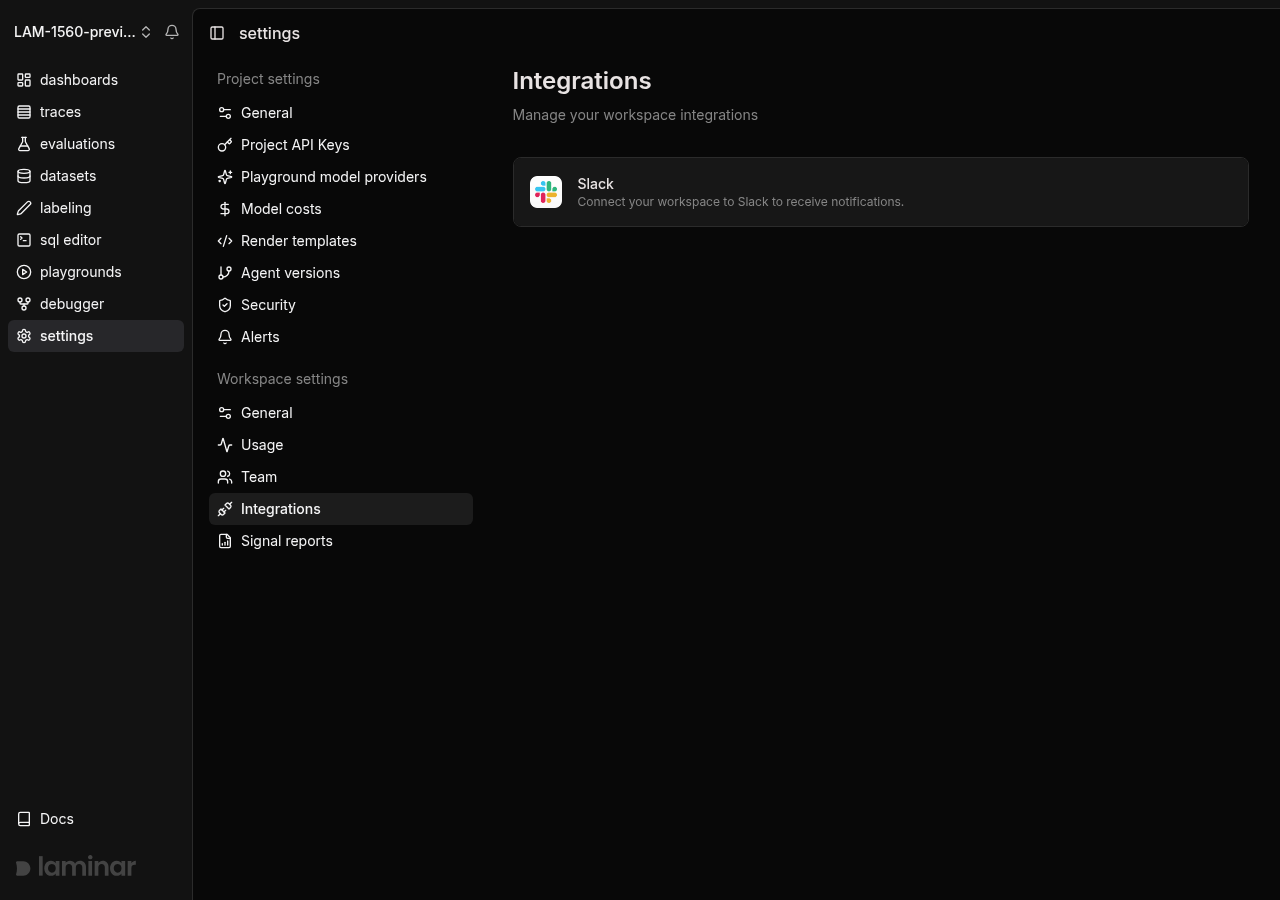
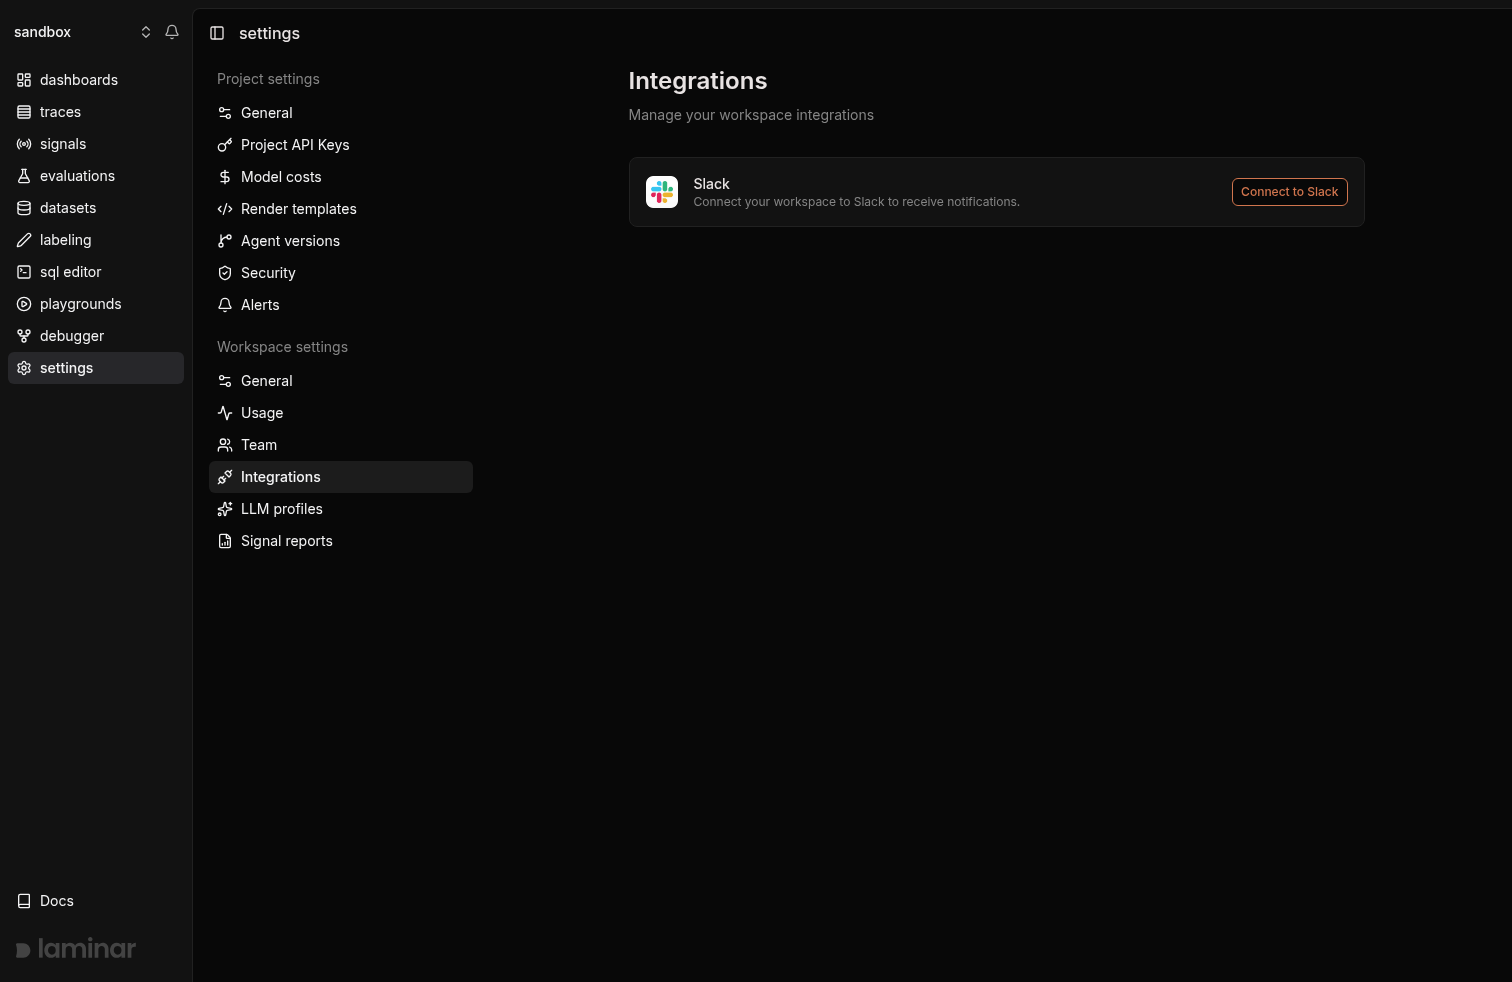
docs(signals): move alerts screenshots and guidance to signal settings
Alerts now live in each Signal's Settings > Alerts section, and Slack
connects from either that section or workspace Settings > Integrations.
Recapture the alerts, alert toggle, output filters, and workspace
integrations screenshots, and update the alerts, quickstart, and Slack
integration pages to match.

diff --git a/CLAUDE.md b/CLAUDE.md
@@ -111,8 +111,9 @@ This is a Mintlify site. Pages are `.mdx`, navigation lives in `docs.json`, reus
 - Exception: when the *point* of the screenshot is to show span nesting across processes (e.g. a caller-side `observe` wrapping a server-side turn span), capture the **tree view** alongside the transcript view. Use both in the same section so the hierarchy is obvious.
 - Close the "Chat with trace" and Signals side panels before capturing so the trace plus transcript are the dominant content. Dismiss any "New: …" Mintlify-style feature popups too.
 - For the **Reports** page: workspaces that predate the default-reports logic (created before LAM-1474) will have an empty reports table in staging. Seed two rows into `reports` (`type=SIGNAL_EVENTS_SUMMARY`, `weekdays={0,1,2,3,4}`/`{6}`, `hour=10`) + matching `report_targets` so the screenshot shows "Weekday/Weekly signals summary" rows instead of the empty state.
-- For the **project Alerts** page: insert a `NEW_CLUSTER` alert alongside the existing `SIGNAL_EVENT` alerts in staging to visibly exercise the Trigger + Severity columns (severity is blank/"—" for `NEW_CLUSTER` rows, which is the expected rendering).
-- For **Signals** screenshots in the OSS `/repos/lmnr` stack: the Signals UI is gated behind `Feature.SIGNALS` (`frontend/lib/features/features.ts`), which needs `SIGNALS_ENABLED=true` AND a configured AI provider (`LLM_PROVIDER` + `LLM_API_KEY`), and clusters need `CLUSTERING_ENABLED=true`. These are runtime server-env reads, so start the prod frontend with all four set (no rebuild needed) and `/signals` stops redirecting to `/traces`. The Signals settings PRs (#1934 four-section sidebar + alert output-schema filters + backfill; #1903 clusters refresh) are merged into the lmnr `dev` branch, so the new UI renders from OSS once the flags are on. lmnr-private is NOT required for the UI to render (it is present in this sandbox now, and its frontend carries the newest Signals UI first). Signal detail page has THREE top-level tabs (Events, Runs, Settings — Settings hidden on free tier); the clusters view renders INSIDE the Events tab, as an icicle strip ABOVE the events table (it was a two-panel list below the table before the clusters refresh), not as its own tab. The former Activity section moved out of Settings and became the Runs tab, so Settings sections are `?tab=settings&section=settings|alerts|backfill`. The Backfill and Runs tables each have their own time-range picker that defaults to 1d — widen to 3 months to populate them (project `0cce3ee3-…` signal `cf58f99f-…` has ~226 runs / 209 events / 8 clusters around 2026-04-20..30). Output-schema-filter UI only renders fields when the signal's `structured_output_schema` has named properties; signal `c0685fef-…` ("Test Signal", `summary`/`isFailure`) is a good one for that shot.
+- For the **Signal Settings > Alerts** shots (LAM-2295): the **Connect to Slack** button only renders when the frontend has `SLACK_CLIENT_ID` and `SLACK_REDIRECT_URL` at runtime (`buildSlackConnectUrl` returns undefined otherwise, hiding the button). Placeholder values (`SLACK_CLIENT_ID=0000000000.0000000000 SLACK_REDIRECT_URL=http://localhost:3000/api/integrations/slack pnpm run start`) are enough, no rebuild. Staging signal `cf58f99f-…` has three seeded alerts (Prebuild regressions, New failure mode, Every prebuild event `a1111111-…0003`) with EMAIL targets; toggle via the `disabled` key in `alerts.metadata`. `/workspace/<id>?tab=integrations` can redirect to another project; use `/project/<id>/settings?tab=integrations` for the workspace Integrations shot. `lsof` is missing, `fuser <port>/tcp` works.
+- (Legacy) For the **project Alerts** page: insert a `NEW_CLUSTER` alert alongside the existing `SIGNAL_EVENT` alerts in staging to visibly exercise the Trigger + Severity columns (severity is blank/"—" for `NEW_CLUSTER` rows, which is the expected rendering).
+- For **Signals** screenshots in the OSS `/repos/lmnr` stack: the Signals UI is gated behind `Feature.SIGNALS` (`frontend/lib/features/features.ts`), which needs `SIGNALS_ENABLED=true` AND a configured AI provider (`LLM_PROVIDER` + `LLM_API_KEY`), and clusters need `CLUSTERING_ENABLED=true`. These are runtime server-env reads, so start the prod frontend with all four set (no rebuild needed) and `/signals` stops redirecting to `/traces`. The Signals settings PRs (#1934 four-section sidebar + alert output-schema filters + backfill; #1903 clusters refresh) are merged into the lmnr `dev` branch, so the new UI renders from OSS once the flags are on. lmnr-private is NOT required for the UI to render (it is present in this sandbox now, and its frontend carries the newest Signals UI first). Signal detail page has THREE top-level tabs (Events, Runs, Settings — Settings hidden on free tier); the clusters view renders INSIDE the Events tab, as an icicle strip ABOVE the events table (it was a two-panel list below the table before the clusters refresh), not as its own tab. The former Activity section moved out of Settings and became the Runs tab, so Settings sections are `?tab=settings&section=settings|versions|alerts|backfill` (sidebar labels General / Versions / Alerts / Backfill). The Backfill and Runs tables each have their own time-range picker that defaults to 1d — widen to 3 months to populate them (project `0cce3ee3-…` signal `cf58f99f-…` has ~226 runs / 209 events / 8 clusters around 2026-04-20..30). Output-schema-filter UI only renders fields when the signal's `structured_output_schema` has named properties; signal `c0685fef-…` ("Test Signal", `summary`/`isFailure`) is a good one for that shot.
 - **Signals create/edit UI after LAM-2126** (`components/signals/create-signal-drawer/`): creation happens in a right-side **drawer** opened by the `+ Signal` button (the button label is just "Signal" with a plus icon, there is no "Create signal" button), while an existing Signal is still edited on the full `?tab=settings&section=settings` page, which embeds the same form. `Trigger` is a two-card radio: **"When a trace finishes"** (default) and **"When a specific span finishes"** (reveals a span-name tag input). `Filters` is the traces-table search bar (`AdvancedSearch`, free text disabled, columns Total tokens / Status / Span names) and every new Signal starts with `total tokens > 1000`. Use the UI labels in docs, not the API kind names (`root-span-finished` / `span-name`) which only appear in the CLI. Two things that will NOT show up in a screenshot: the `Processing mode` select is behind `Feature.BATCH_SIGNALS`, which is hard-coded `false` in `lib/features/features.ts`, and the Active/Inactive card renders only when editing (the form checks for an `id`), so it is absent from the create drawer.
 - Signal **evaluation** does not run against the local lmnr-private stack: the `signals` cargo feature is not in app-server's default features, so a Signal created for a screenshot stays at 0 events. Shoot populated events/clusters/backfill views against pre-existing data (project `0cce3ee3-…`, signal `cf58f99f-…`) instead of waiting for new events.
 - For the **Sessions** section (`/tracing/structure/sessions`) after LAM-1438-2 / PR #1656: the old expandable-row drawer is gone. Clicking a row in the Sessions table at `/project/<id>/traces?view=sessions` (actual path is server-side; the tab is labeled `Sessions` next to `Traces`/`Spans`) navigates to `/project/<id>/sessions/<sessionId>`. The detail page has a `sessions / <sessionId>` breadcrumb, three stats shields (duration / tokens / cost), a `Timeline` toggle, a search box, and numbered trace cards (`1/5`, `2/5`, …) with an auto-extracted `Input` block plus the last LLM-span output. Docs must show BOTH the table view and the detail view. Seed at least two sessions with real OpenAI/Anthropic calls (not just raw `@observe`'d functions) so the Input/Output previews are populated — sessions without LLM spans render a thin card that does not demo the new UI.
@@ -191,7 +192,7 @@ This is a Mintlify site. Pages are `.mdx`, navigation lives in `docs.json`, reus
 
 ## Alerts and reports coupling
 
-- Alerts are **project-level** (`/repos/lmnr/app-server` writes to `alerts` / `alert_targets`); reports are **workspace-level** (`reports` / `report_targets`). Both live under the Signals sidebar group in `docs.json` (`/signals/alerts` and `/signals/reports`), since they're the two notification-channel primitives for Signals.
+- Alerts are stored per project (`alerts` / `alert_targets`), but the UI home is the Signal: docs point to the Signal's **Settings > Alerts** section (list, **+ Alert**, edit, switch, and a **Slack** connect card), never to project Settings. The project Settings sidebar still renders an "Alerts" item in the lmnr-private build as of LAM-2295 (2026-09); docs intentionally ignore it. Slack connects from two cards that share one workspace-level connection: the Signal's Settings > Alerts and workspace **Settings > Integrations**. Reports are **workspace-level** (`reports` / `report_targets`). Both live under the Signals sidebar group in `docs.json` (`/signals/alerts` and `/signals/reports`), since they're the two notification-channel primitives for Signals.
 - Alert types are `SIGNAL_EVENT` and `NEW_CLUSTER`. `skipSimilar` and `NEW_CLUSTER` both depend on the clustering service and are gated behind `Feature.CLUSTERING` in the UI — call this out explicitly in any doc that mentions them.
 - Every new Signal auto-creates a Critical-severity `SIGNAL_EVENT` alert plus (when clustering is on) a `NEW_CLUSTER` alert, both defaulting to in-app only. The `/signals/quickstart` Note must stay in sync with this behavior if the default-alert logic changes.
 - Reports post to the in-app notification center only for short periods (≤3 days); weekly-style rollups are suppressed in-app to avoid duplicating daily summaries (see `formatReportNotification` in `frontend/components/notifications/notification-panel.tsx`). Reflect this when describing in-app behavior.
